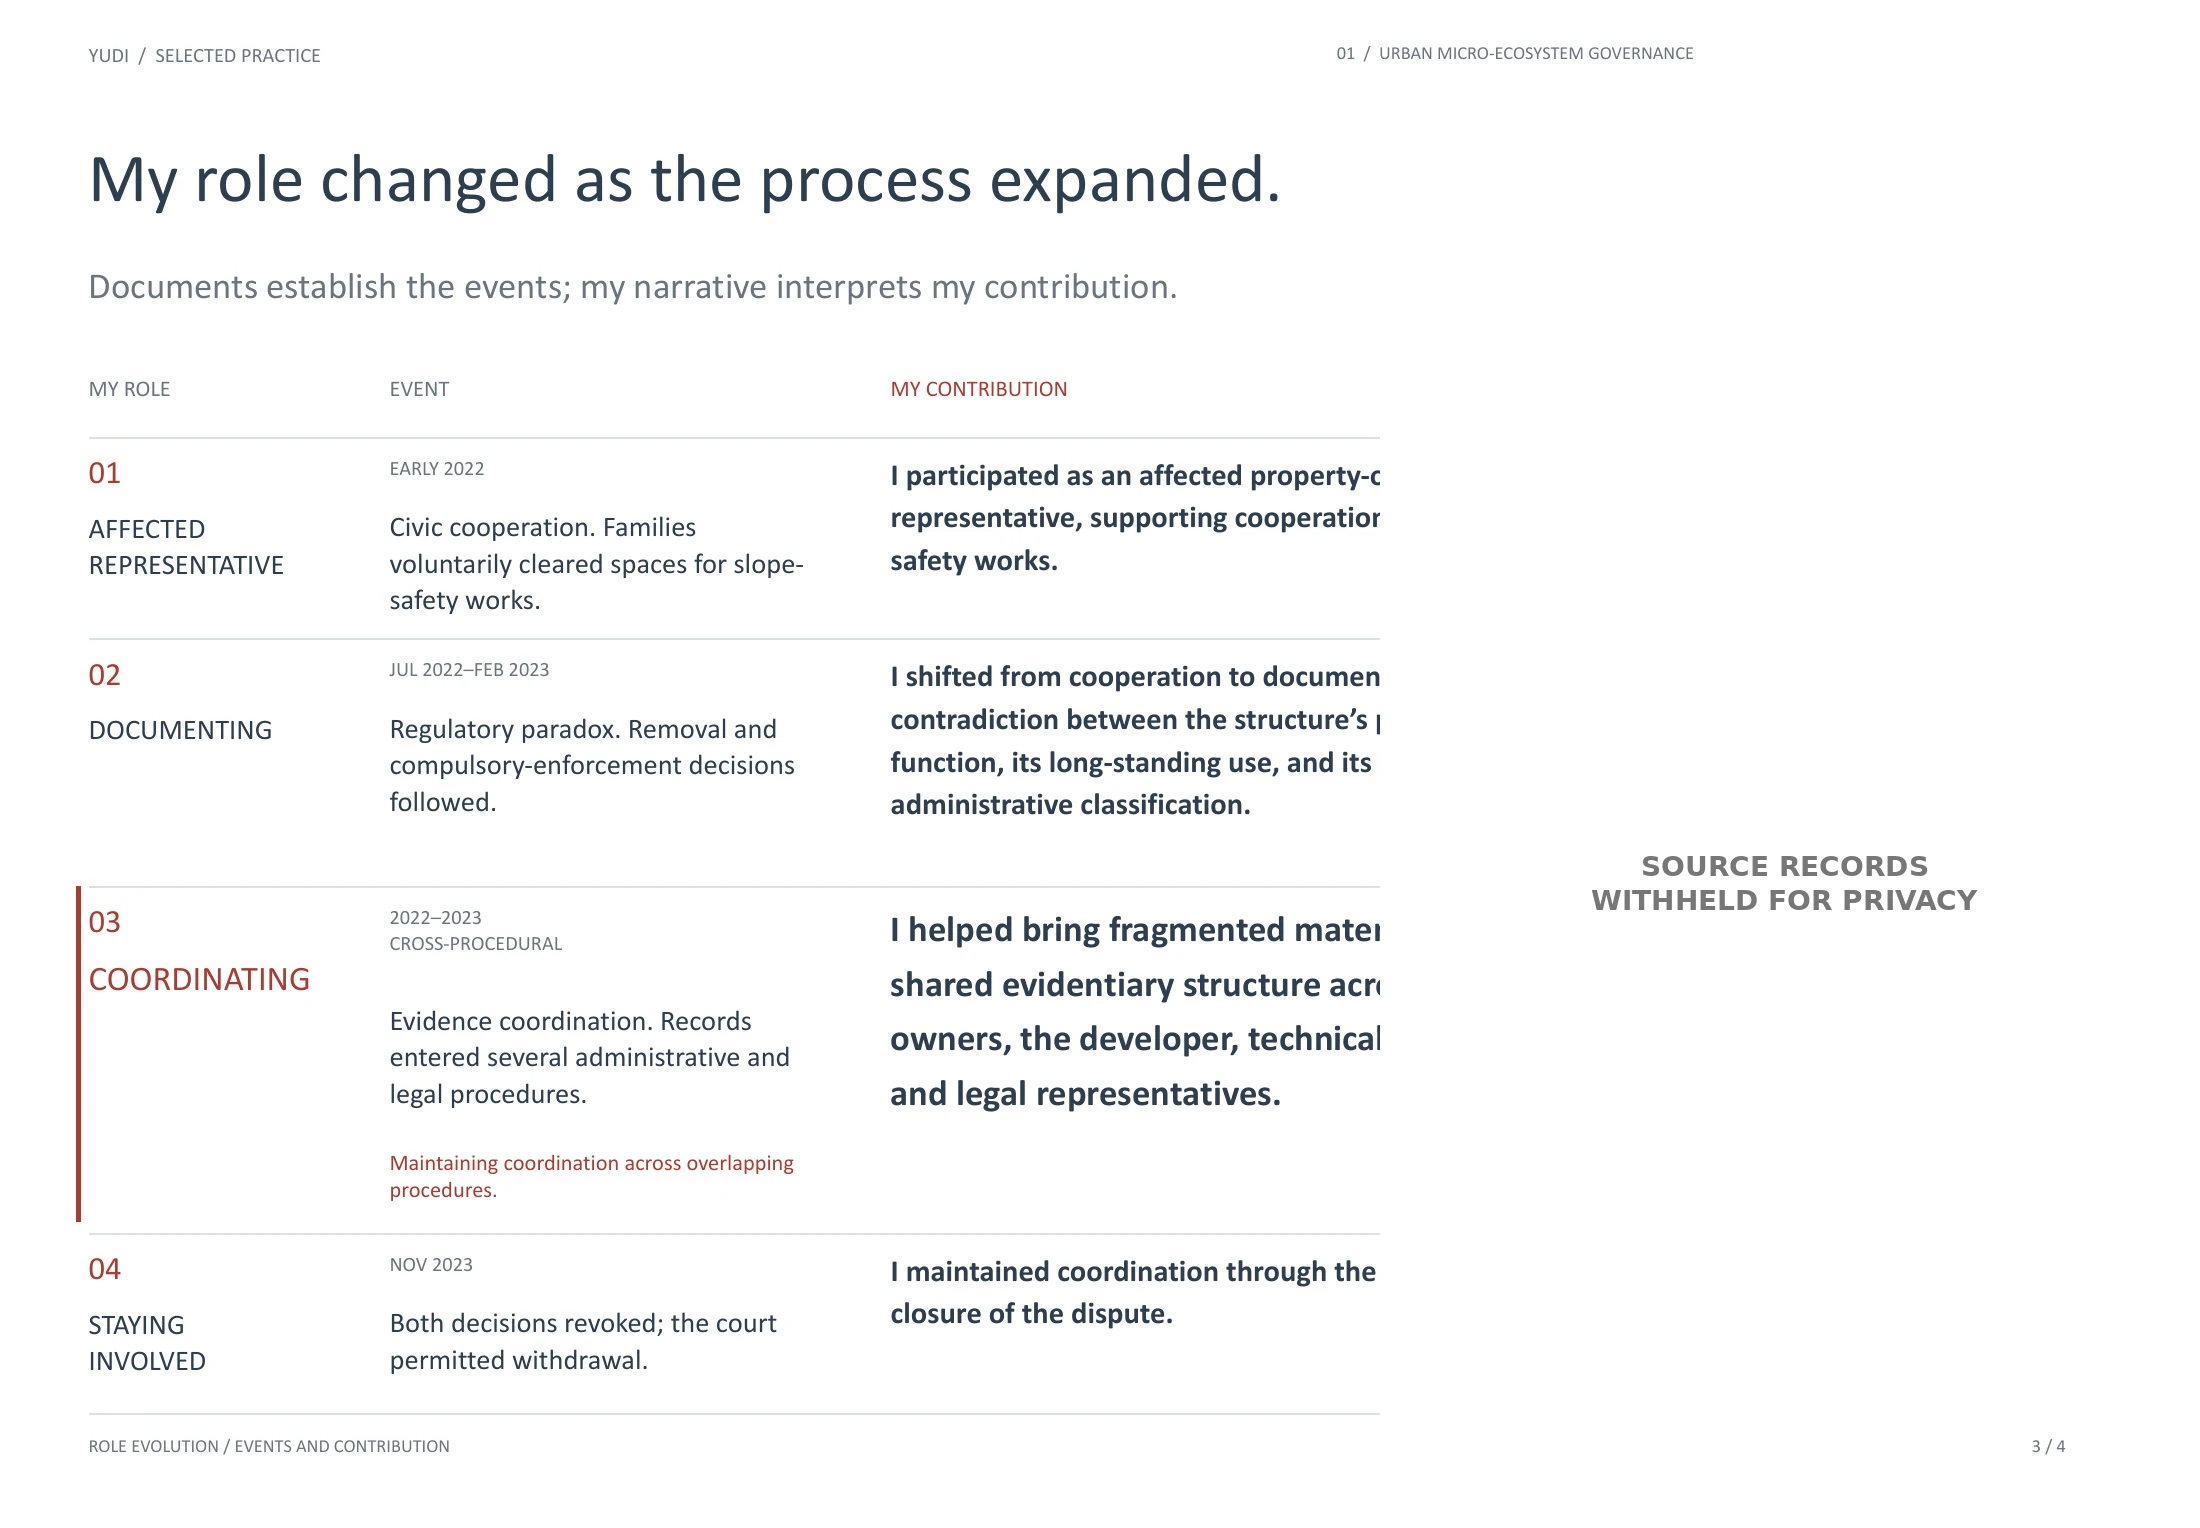
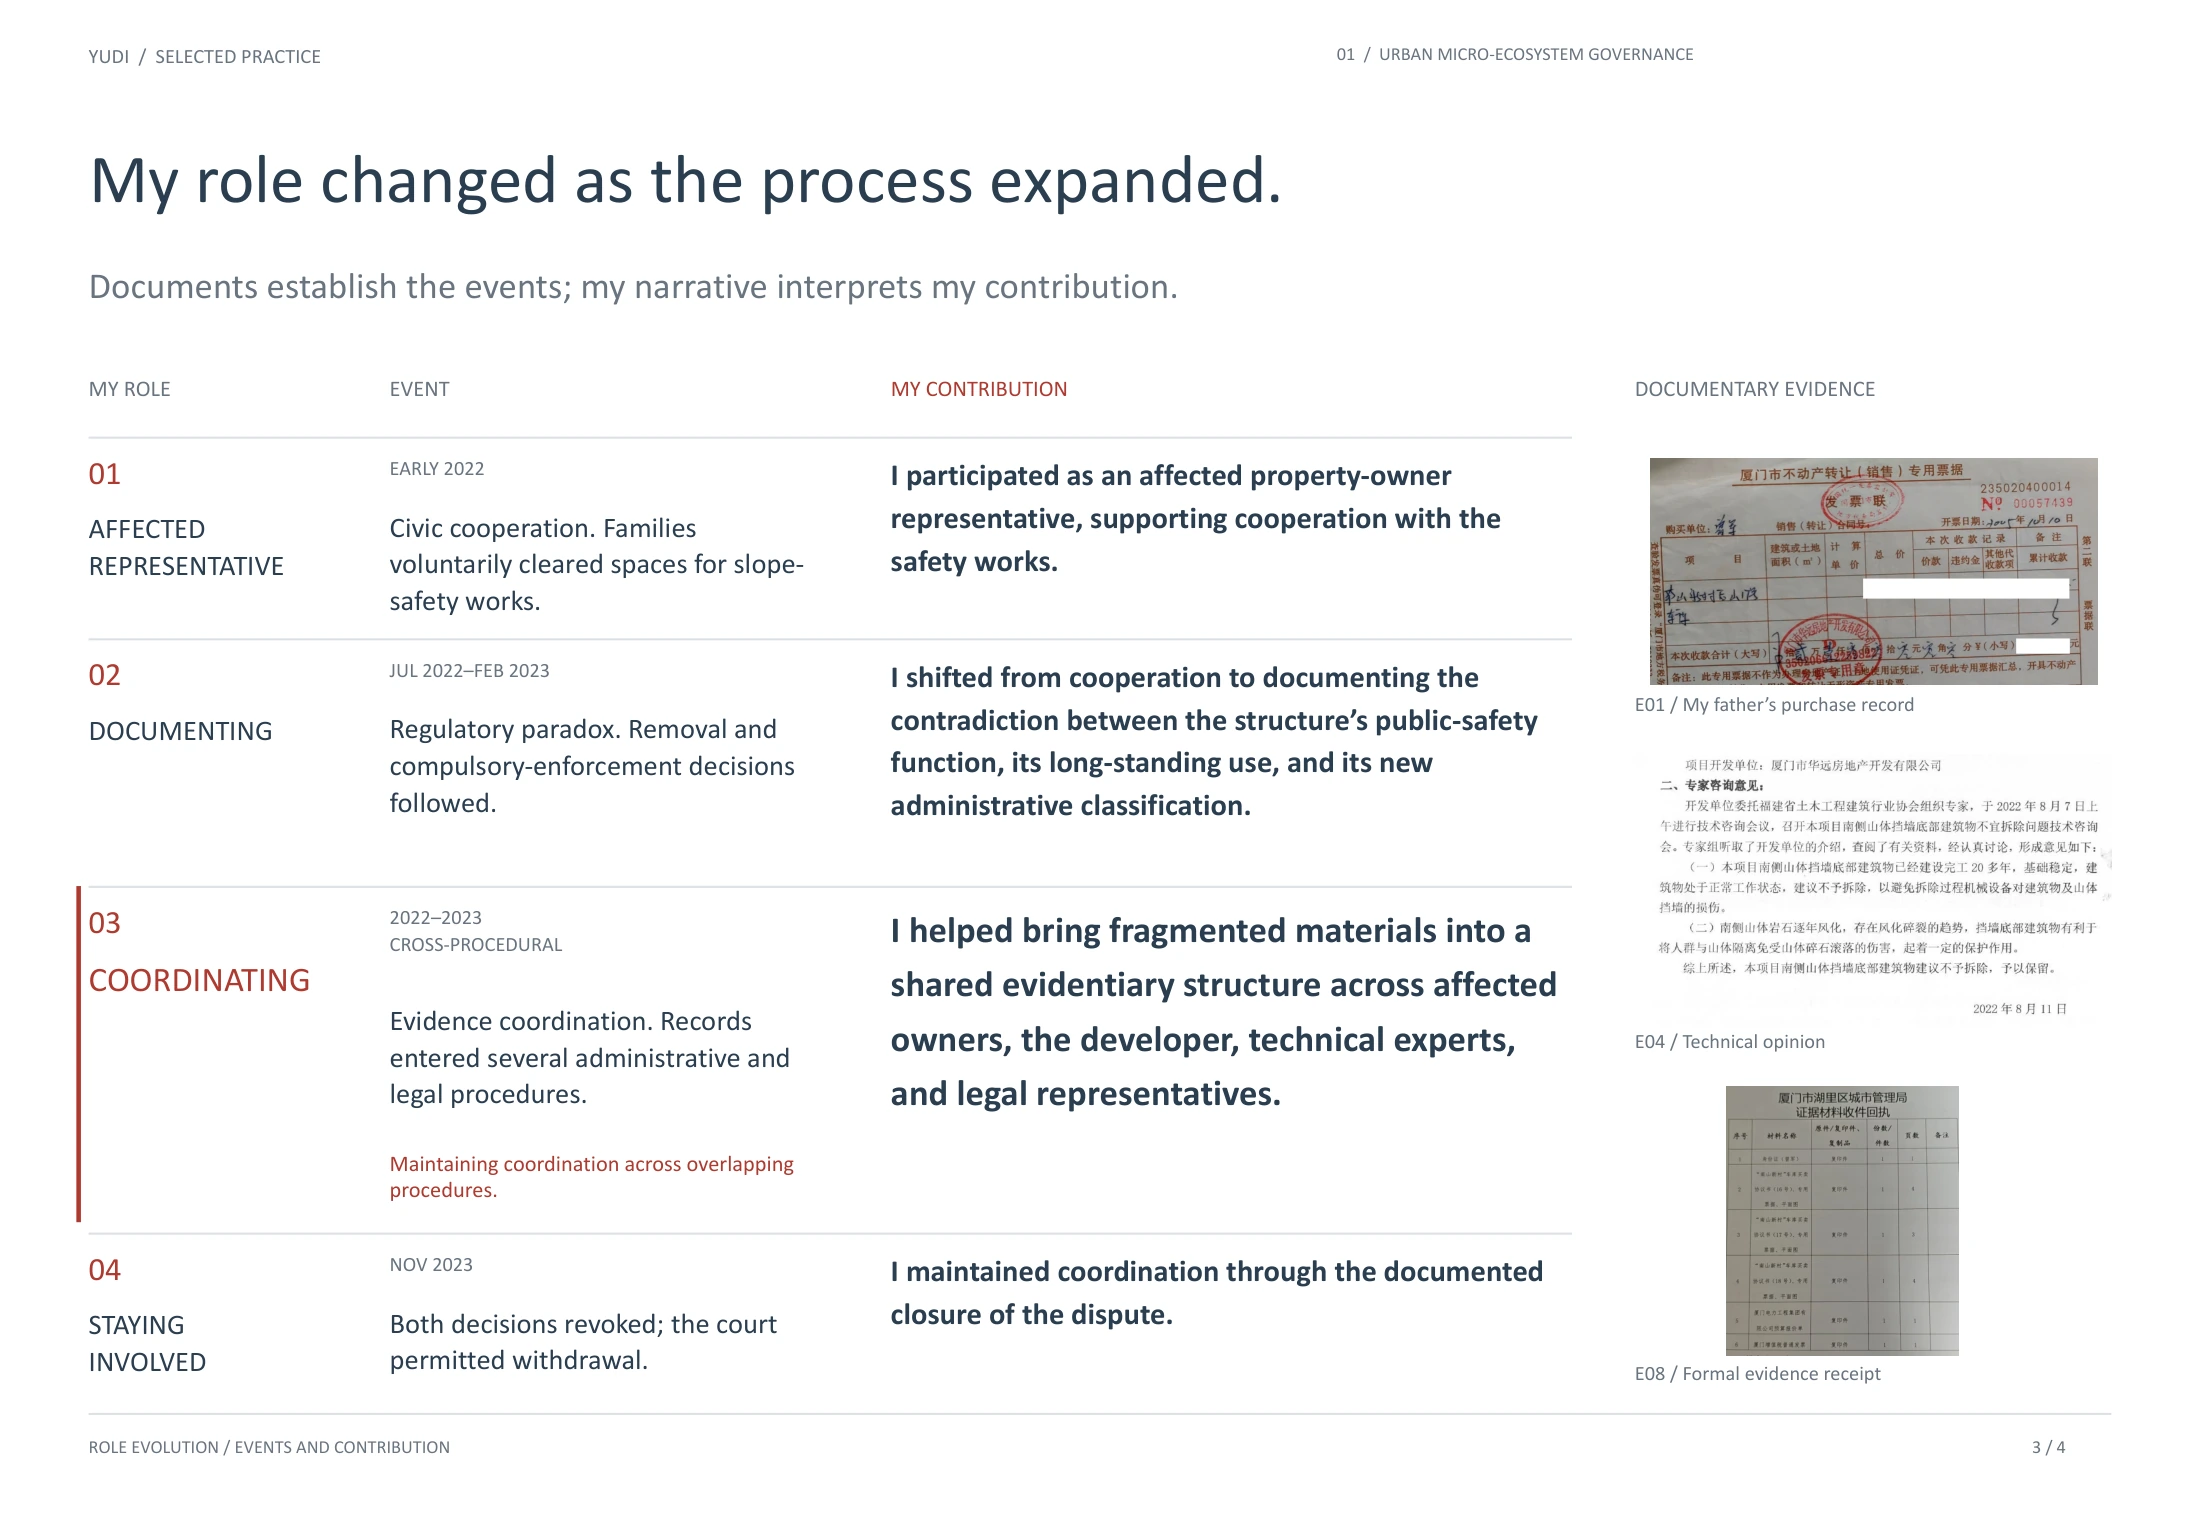
Restore original Part 1 evidence slides and remove extra privacy notices

diff --git a/site/projects/01-contradiction.html b/site/projects/01-contradiction.html
@@ -1,11 +1,11 @@
 <!doctype html>
 <html lang="en"><head><meta charset="utf-8"><meta name="viewport" content="width=device-width, initial-scale=1"><meta name="description" content="Urban Micro-Ecosystem Governance — an inquiry into fragmented evidence, institutional contradiction, and civic coordination."><title>01 / Coordination — Yudi Zeng</title><link rel="icon" href="../favicon.svg" type="image/svg+xml"><link rel="stylesheet" href="../styles.css?v=20261011-imgfix"><link rel="canonical" href="https://yudizeng.github.io/yudi-zeng-2025-web-portfolio/projects/01-contradiction.html"><meta name="robots" content="index, follow"><meta property="og:title" content="01 / Coordination — Yudi Zeng"><meta property="og:description" content="Urban Micro-Ecosystem Governance — an inquiry into fragmented evidence, institutional contradiction, and civic coordination."><meta property="og:type" content="website"><meta property="og:url" content="https://yudizeng.github.io/yudi-zeng-2025-web-portfolio/projects/01-contradiction.html"><meta name="twitter:card" content="summary"><meta name="twitter:title" content="01 / Coordination — Yudi Zeng"><meta name="twitter:description" content="Urban Micro-Ecosystem Governance — an inquiry into fragmented evidence, institutional contradiction, and civic coordination."></head>
 <body class="project-page"><a class="skip-link" href="#project">Skip to project</a><header class="topbar"><a class="wordmark" href="../index.html#top">YUDI ZENG</a><nav aria-label="Primary navigation"><a href="../index.html#index">INDEX</a><a href="../index.html#about">ABOUT</a><a href="../assets/Yudi_Zeng_CV.pdf" target="_blank" rel="noopener">CV ↗</a></nav></header>
-<main id="project"><section class="project-intro"><a class="back-link" href="../index.html#index">← INDEX</a><p class="hero-kicker">01 / COORDINATION · CIVIC SYSTEM</p><h1>Urban Micro-Ecosystem Governance</h1><p class="project-question">How can different actors build a shared basis for action within the same reality?</p><div class="intro-copy"><p>A government slope-safety project affecting my family’s garage became an inquiry into civic coordination. As an affected family member, I helped organize residents, assemble fragmented evidence, and keep communication moving across institutional and technical positions.</p><p>Residents faced the consequences, while records and decision-making authority sat across different institutions. The work was to connect what each party knew and could act on. Personal and administrative records are withheld where they could expose private details.</p></div><p class="contribution"><strong>My contribution:</strong> Resident coordination, evidence organization, and liaison as an affected family member.<span>Xiamen, China · 2022–2024</span></p><div class="tag-line">Civic coordination / Evidence / Negotiation / Recalibration</div></section>
+<main id="project"><section class="project-intro"><a class="back-link" href="../index.html#index">← INDEX</a><p class="hero-kicker">01 / COORDINATION · CIVIC SYSTEM</p><h1>Urban Micro-Ecosystem Governance</h1><p class="project-question">How can different actors build a shared basis for action within the same reality?</p><div class="intro-copy"><p>A government slope-safety project affecting my family’s garage became an inquiry into civic coordination. As an affected family member, I helped organize residents, assemble fragmented evidence, and keep communication moving across institutional and technical positions.</p><p>Residents faced the consequences, while records and decision-making authority sat across different institutions. The work was to connect what each party knew and could act on.</p></div><p class="contribution"><strong>My contribution:</strong> Resident coordination, evidence organization, and liaison as an affected family member.<span>Xiamen, China · 2022–2024</span></p><div class="tag-line">Civic coordination / Evidence / Negotiation / Recalibration</div></section>
 <section class="deck" aria-label="Project presentation slides">
 <figure><a href="../assets/decks/p1-slide-01.webp" target="_blank" rel="noopener"><img src="../assets/decks/p1-slide-01.webp" width="2200" height="1528" alt="Slide 1: entering the dispute through a direct stake in the garages" fetchpriority="high"></a><figcaption><span>01 / 04</span><span>Entering through a direct stake</span></figcaption></figure>
 <figure><a href="../assets/decks/p1-slide-02.webp" target="_blank" rel="noopener"><img src="../assets/decks/p1-slide-02.webp" width="2200" height="1528" alt="Slide 2: the institutional contradiction and the question of governance" loading="lazy"></a><figcaption><span>02 / 04</span><span>The contradiction</span></figcaption></figure>
-<figure><a href="../assets/decks/p1-slide-03.webp" target="_blank" rel="noopener"><img src="../assets/decks/p1-slide-03.webp" width="2200" height="1528" alt="Slide 3: role evolution and coordination; source records withheld for privacy" loading="lazy"></a><figcaption><span>03 / 04</span><span>Role evolution / source records withheld for privacy</span></figcaption></figure>
-<figure><a href="../assets/decks/p1-slide-04.webp" target="_blank" rel="noopener"><img src="../assets/decks/p1-slide-04.webp" width="2200" height="1528" alt="Slide 4: what became visible and the documented outcome; record withheld" loading="lazy"></a><figcaption><span>04 / 04</span><span>What became visible / administrative record withheld</span></figcaption></figure>
+<figure><a href="../assets/decks/p1-slide-03.webp?v=20261011-original" target="_blank" rel="noopener"><img src="../assets/decks/p1-slide-03.webp?v=20261011-original" width="2200" height="1528" alt="Slide 3: role evolution, coordination, and documentary evidence" loading="lazy"></a><figcaption><span>03 / 04</span><span>Role evolution / documentary evidence</span></figcaption></figure>
+<figure><a href="../assets/decks/p1-slide-04.webp?v=20261011-original" target="_blank" rel="noopener"><img src="../assets/decks/p1-slide-04.webp?v=20261011-original" width="2200" height="1528" alt="Slide 4: what became visible and the documented outcome" loading="lazy"></a><figcaption><span>04 / 04</span><span>What became visible / documented outcome</span></figcaption></figure>
 </section><section class="documented-outcome"><p class="eyebrow">DOCUMENTED OUTCOME / NOVEMBER 2023</p><p>Two administrative decisions were revoked. The court subsequently approved withdrawal of the related suit.</p><p class="source-boundary">The records establish the procedural outcome; the project narrative describes my coordination work within it.</p><a class="back-link" href="../index.html#index">Return to index ↑</a></section></main>
 <footer><div><strong>Yudi Zeng</strong><span>Practice-based research portfolio</span></div><div><span>Xiamen, China</span><a href="../assets/Yudi_Zeng_CV.pdf" target="_blank" rel="noopener">CV ↗</a></div><a href="mailto:yzeng19970104@gmail.com">yzeng19970104@gmail.com</a></footer><script src="../script.js"></script></body></html>
